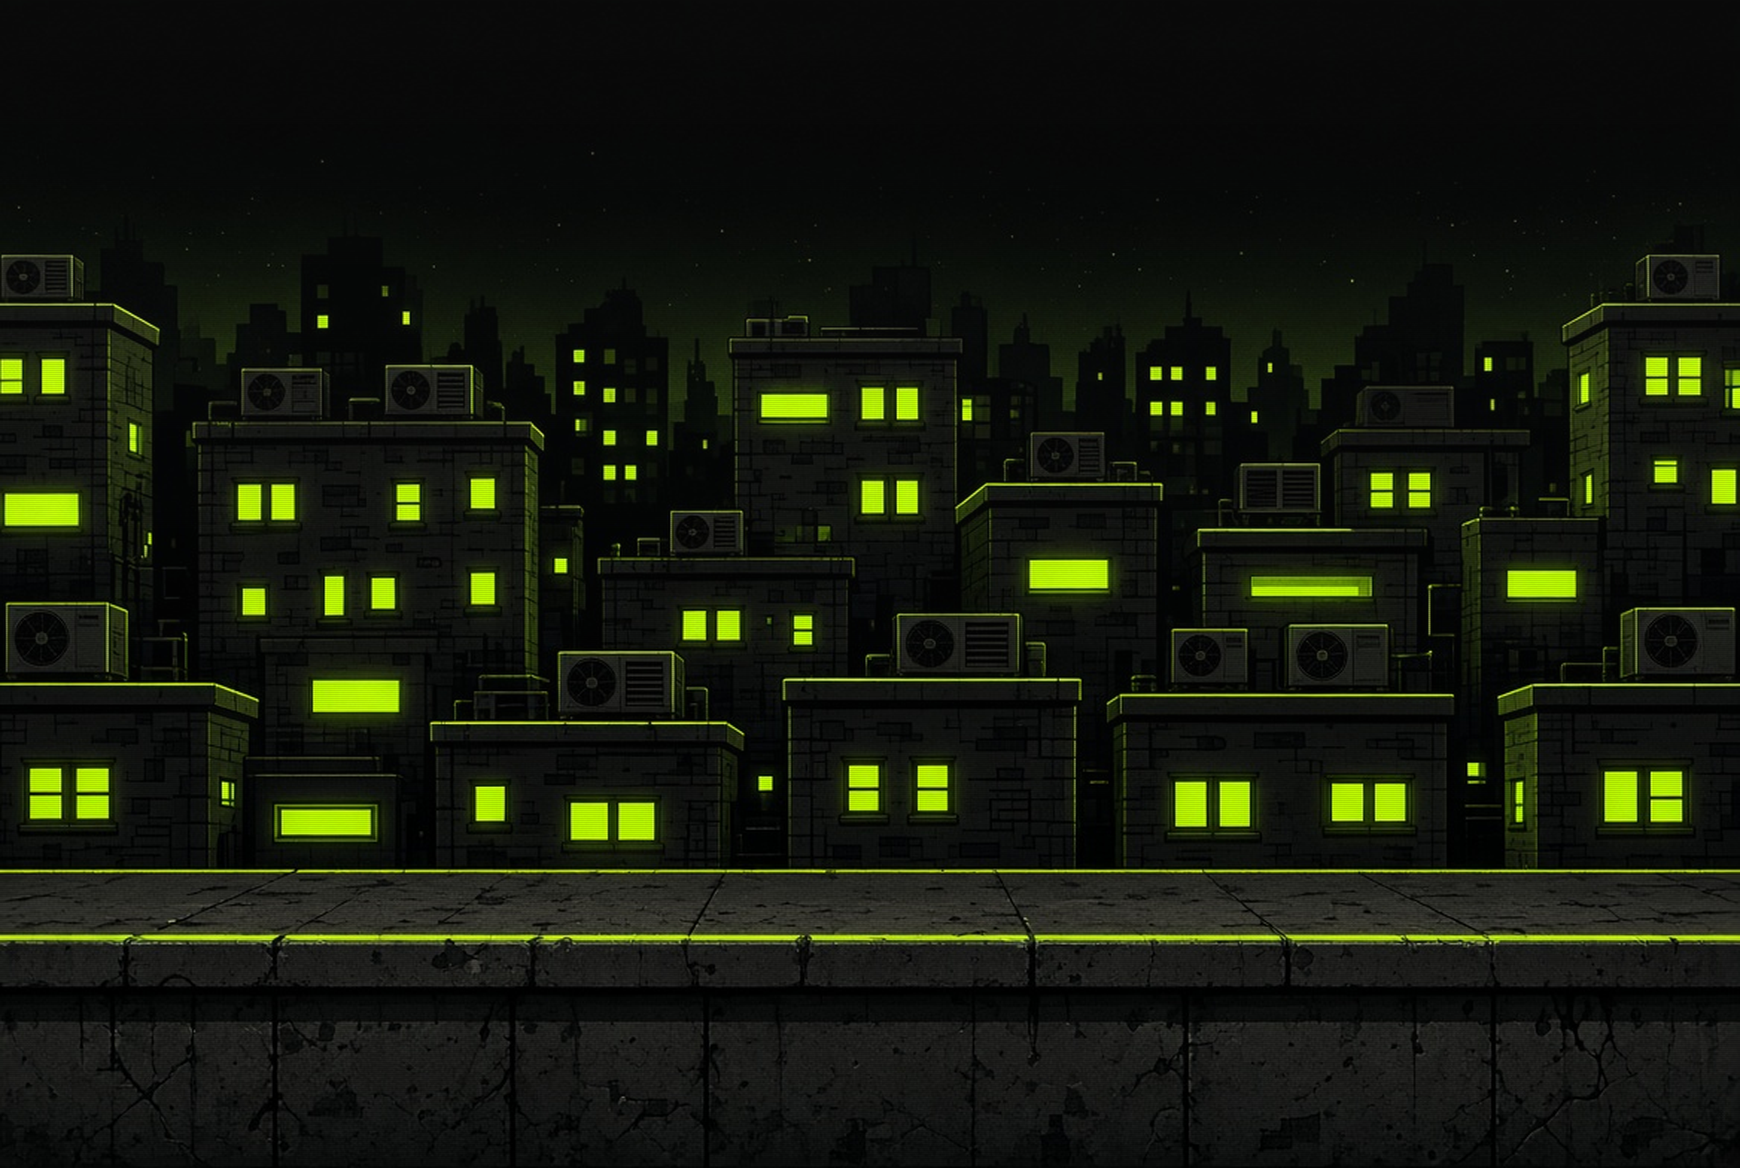
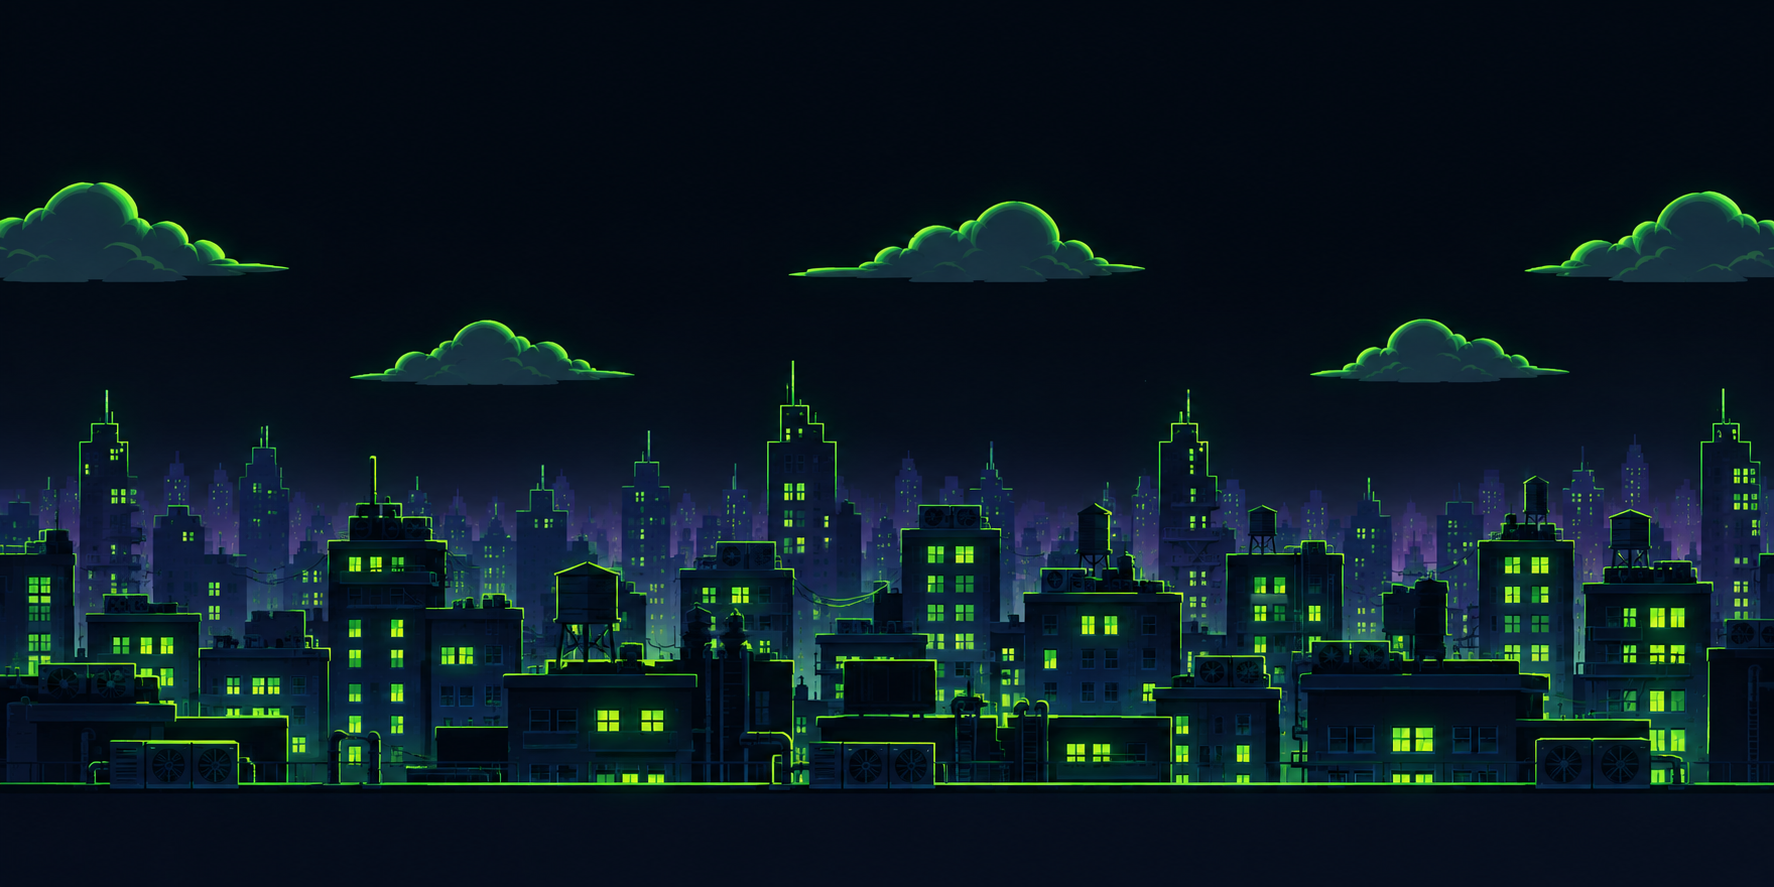
FiFi Bird: ghost replay, haptics, fullscreen fix, and arena art pass
Rendering fix (assets/js/fifi-bird.js):
- resizeCanvas() was always sizing the backing store to the fixed 360x520
  logical resolution and letting CSS stretch it to fill the screen in
  fullscreen - classic upscale blur. It now matches the backing-store
  resolution to the canvas's actual on-screen size in both modes.
- That exposed a hairline seam between mirrored background tiles at
  non-integer scale factors; fixed with a 1px dest-width overlap.

Locker (assets/css/styles.css):
- Locked skin cards were fully desaturated, including the --chip colour
  glow meant to preview the skin - every locked card read as the same flat
  grey tile. Scoped the greyscale filter to just the bird silhouette so the
  colour hint survives.

Arena art:
- Wired Sunset/Terminal/Night/Rooftop/Toxic to the new art actually sitting
  in assets/images/FiFi Bird/arenas (several had landed under "_scroll"
  filenames the code never read).
- Dropped Starfield and Lime Ship - no art exists for either - and nudged
  Ship's unlock requirement down (100 -> 80) so the ladder doesn't jump.
- Arena locker thumbnails fall back to the Meadow image on a failed load
  instead of showing a broken-image icon, mirroring drawBackground()'s
  existing fallback.

New features (assets/js/fifi-bird.js):
- Haptics: navigator.vibrate on flap, death, and a longer pattern on a new
  best. No-ops silently where unsupported (iOS Safari) or blocked.
- "Beat your ghost": each run's bird position/velocity is sampled every
[…]

diff --git a/assets/js/fifi-bird.js b/assets/js/fifi-bird.js
@@ -77,14 +77,12 @@
   ];
   const ARENAS = [
     { id: 'meadow',         label: 'Meadow',    need: 0,   src: BG_SPRITE_PATH },
-    { id: 'sunset_city',    label: 'Sunset',    need: 15,  src: ARENA_DIR + 'sunset_city.jpg' },
+    { id: 'sunset_city',    label: 'Sunset',    need: 15,  src: ARENA_DIR + 'sunset_city_scroll.png' },
     { id: 'terminal_city',  label: 'Terminal',  need: 25,  src: ARENA_DIR + 'terminal_city.jpg' },
-    { id: 'night_city',     label: 'Night',     need: 35,  src: ARENA_DIR + 'night_city.jpg' },
-    { id: 'neon_rooftop',   label: 'Rooftop',   need: 50,  src: ARENA_DIR + 'neon_rooftop.jpg' },
-    { id: 'toxic_meadow',   label: 'Toxic',     need: 65,  src: ARENA_DIR + 'toxic_meadow.jpg' },
-    { id: 'starfield',      label: 'Starfield', need: 80,  src: ARENA_DIR + 'starfield_poster.jpg' },
-    { id: 'spaceship',      label: 'Ship',      need: 100, src: ARENA_DIR + 'spaceship_scroll.png' },
-    { id: 'spaceship_lime', label: 'Lime Ship', need: 120, src: ARENA_DIR + 'spaceship_lime.jpg' }
+    { id: 'night_city',     label: 'Night',     need: 35,  src: ARENA_DIR + 'night_city_scroll.png' },
+    { id: 'neon_rooftop',   label: 'Rooftop',   need: 50,  src: ARENA_DIR + 'neon_rooftop_scroll.png' },
+    { id: 'toxic_meadow',   label: 'Toxic',     need: 65,  src: ARENA_DIR + 'toxic_meadow_scroll.png' },
+    { id: 'spaceship',      label: 'Ship',      need: 80,  src: ARENA_DIR + 'spaceship_scroll.png' }
   ];
 
   BIRD_SKINS.sort((a, b) => a.need - b.need || a.label.localeCompare(b.label));
@@ -250,6 +248,17 @@
   let runRng         = null;
   let runStartBusy   = false;
 
+  // ─── GHOST (beat-your-best replay) ────────────────────────────────────────────
+  // Samples are [elapsedMs, birdY, birdVy] tuples recorded for the CURRENT run and,
+  // once it ends, kept as the new ghost only if it beat the stored one. Replaying
+  // vy (not just y) lets the ghost re-derive the same nose-up/nose-down tilt the
+  // live bird gets, via the identical smoothing step in drawGhost().
+  const GHOST_KEY    = 'fuq.fifiBird.ghost';
+  let ghostSamples   = null;   // loaded/saved [t,y,vy][] — null until a run is ever recorded
+  let ghostScore     = 0;
+  let ghostRecording = [];     // in-progress recording for the run currently being played
+  let ghostAngle     = 0;
+
   const els = {};
   function $(id) { return document.getElementById(id); }
 
@@ -380,6 +389,16 @@
     } catch (_) {}
   }
 
+  // ─── HAPTICS ──────────────────────────────────────────────────────────────────
+  // Android Chrome supports navigator.vibrate; iOS Safari doesn't expose it at
+  // all, so this is a silent no-op there rather than a fallback worth building.
+  function vibrate(pattern) {
+    try {
+      if (reduceMotion) return;
+      if (navigator.vibrate) navigator.vibrate(pattern);
+    } catch (_) {}
+  }
+
   // ─── RNG ──────────────────────────────────────────────────────────────────────
   function mulberry32(a) {
     let state = a >>> 0;
@@ -416,21 +435,26 @@
 
   function resizeCanvas() {
     if (!canvas || !ctx) return;
-    const rect = canvas.getBoundingClientRect();
-    dpr = Math.min(canvasDprCap(), window.devicePixelRatio || 1);
-    canvas.width  = Math.floor(W * dpr);
-    canvas.height = Math.floor(H * dpr);
-    ctx.setTransform(dpr, 0, 0, dpr, 0, 0);
-    ctx.imageSmoothingEnabled = true;
-    if (typeof ctx.imageSmoothingQuality === 'string') ctx.imageSmoothingQuality = 'high';
     const fsActive = pseudoFsActive || !!(document.fullscreenElement || document.webkitFullscreenElement);
     if (fsActive) {
       // Let CSS drive sizing in fullscreen so the canvas fits the viewport height.
       canvas.style.height = '';
     } else {
-      const cw = rect.width || canvas.clientWidth || W;
+      const cw = canvas.getBoundingClientRect().width || canvas.clientWidth || W;
       canvas.style.height = `${(cw * H) / W}px`;
     }
+    // Match the backing-store resolution to the canvas's actual on-screen size
+    // (not the fixed W×H logical size) so fullscreen's CSS upscale doesn't blur —
+    // the rendered box can be far bigger than the 360×520 base in fullscreen.
+    const rect = canvas.getBoundingClientRect();
+    const cssW = rect.width || W;
+    const cssH = rect.height || H;
+    dpr = Math.min(canvasDprCap(), window.devicePixelRatio || 1);
+    canvas.width  = Math.max(1, Math.round(cssW * dpr));
+    canvas.height = Math.max(1, Math.round(cssH * dpr));
+    ctx.setTransform(canvas.width / W, 0, 0, canvas.height / H, 0, 0);
+    ctx.imageSmoothingEnabled = true;
+    if (typeof ctx.imageSmoothingQuality === 'string') ctx.imageSmoothingQuality = 'high';
   }
 
   // ─── HELPERS ──────────────────────────────────────────────────────────────────
@@ -519,14 +543,18 @@
       const offset = bgScrollX - slot * tileW;
       let xPos = Math.floor(-offset), mirrored = (slot & 1) !== 0;
       while (xPos < W + 1) {
+        // Dest width is 1px wider than the tile stride so adjacent tiles overlap
+        // slightly — otherwise non-integer canvas scale factors (e.g. fullscreen,
+        // where backing-store px no longer divide evenly into W) leave a hairline
+        // seam between tiles.
         if (mirrored) {
           ctx.save();
           ctx.translate(xPos + tileW, 0);
           ctx.scale(-1, 1);
-          ctx.drawImage(bgImg, c.sx, c.sy, c.sw, c.sh, 0, 0, tileW, H);
+          ctx.drawImage(bgImg, c.sx, c.sy, c.sw, c.sh, 0, 0, tileW + 1, H);
           ctx.restore();
         } else {
-          ctx.drawImage(bgImg, c.sx, c.sy, c.sw, c.sh, xPos, 0, tileW, H);
+          ctx.drawImage(bgImg, c.sx, c.sy, c.sw, c.sh, xPos, 0, tileW + 1, H);
         }
         xPos += tileW;
         mirrored = !mirrored;
@@ -631,6 +659,29 @@
     ctx.fillRect(0, y + 22, W, 4);
   }
 
+  // Pure sprite blit shared by the live bird and the ghost replay — takes an
+  // already-resolved angle/frame rather than reading birdAngle itself, so the
+  // ghost can drive it with its own (separately smoothed) tilt.
+  function blitBirdSprite(x, y, angle, frameIdx) {
+    ctx.save();
+    ctx.translate(x, y);
+    ctx.rotate(angle);
+    if (birdSpriteOk && birdImg && birdImg.naturalWidth > 0) {
+      const fw = birdImg.naturalWidth / BIRD_SPRITE_FRAMES;
+      const fh = birdImg.naturalHeight;
+      const sy = fh * SPRITE_CROP_Y_FRAC;
+      const sh = fh * SPRITE_CROP_H_FRAC;
+      const scale = TARGET_SPRITE_HEIGHT / sh;
+      const dw = fw * scale, dh = sh * scale;
+      ctx.drawImage(birdImg, frameIdx * fw, sy, fw, sh, -dw * 0.5, -dh * 0.5, dw, dh);
+    } else {
+      ctx.beginPath();
+      ctx.arc(0, 0, BIRD_R, 0, Math.PI * 2);
+      ctx.fillStyle = '#39ff14'; ctx.fill();
+    }
+    ctx.restore();
+  }
+
   function drawBirdAt(x, y, now) {
     // OG rotation: nose snaps up on a flap and holds through the top of the
     // arc, then the bird pitches down hard toward 90° as it dives.
@@ -655,24 +706,7 @@
       frameIdx = Math.floor(now / 420) % 2 === 0 ? 0 : 2;
     }
 
-    ctx.save();
-    ctx.translate(x, y);
-    ctx.rotate(birdAngle);
-
-    if (birdSpriteOk && birdImg && birdImg.naturalWidth > 0) {
-      const fw = birdImg.naturalWidth / BIRD_SPRITE_FRAMES;
-      const fh = birdImg.naturalHeight;
-      const sy = fh * SPRITE_CROP_Y_FRAC;
-      const sh = fh * SPRITE_CROP_H_FRAC;
-      const scale = TARGET_SPRITE_HEIGHT / sh;
-      const dw = fw * scale, dh = sh * scale;
-      ctx.drawImage(birdImg, frameIdx * fw, sy, fw, sh, -dw * 0.5, -dh * 0.5, dw, dh);
-    } else {
-      ctx.beginPath();
-      ctx.arc(0, 0, BIRD_R, 0, Math.PI * 2);
-      ctx.fillStyle = '#39ff14'; ctx.fill();
-    }
-    ctx.restore();
+    blitBirdSprite(x, y, birdAngle, frameIdx);
   }
 
   // Big plain counter at the top, exactly like the OG — no pops, no "+1".
@@ -946,6 +980,7 @@
     } else if (gameState === S_READY) {
       by = birdY + Math.sin(now / 320) * 6;
     }
+    drawGhost(now);
     drawBirdAt(bx, by, now);
 
     // Score HUD — visible from GET READY through the death fall, like the OG
@@ -1017,6 +1052,10 @@
       bgScrollX += speed * BG_PARALLAX;
       groundScrollX += speed;
 
+      if (runStartedPerf != null && ghostRecording.length < 20000) {
+        ghostRecording.push([ts - runStartedPerf, birdY, birdVy]);
+      }
+
       for (let i = pipes.length - 1; i >= 0; i--) {
         pipes[i].x -= speed;
         const p = pipes[i];
@@ -1039,6 +1078,7 @@
         shakeAmt = 1.0;
         flashAmt = 1.0;
         playDeath();
+        vibrate(30);
       }
     }
 
@@ -1054,11 +1094,81 @@
         deadTs = ts;
         deathWasNewBest = score > 0 && score > bestScore;
         spawnWinParticles();
+        if (deathWasNewBest) vibrate([20, 40, 20, 40, 20]);
         void endRound();
       }
     }
 
     drawFrame(ts);
+  }
+
+  // ─── GHOST ────────────────────────────────────────────────────────────────────
+  function loadGhostBest() {
+    try {
+      const raw = window.localStorage && window.localStorage.getItem(GHOST_KEY);
+      if (!raw) return null;
+      const parsed = JSON.parse(raw);
+      if (!parsed || !Array.isArray(parsed.samples) || parsed.samples.length < 2) return null;
+      return parsed;
+    } catch (_) { return null; }
+  }
+
+  // Thins a run down to a bounded point count and rounds values before it's
+  // persisted, so a long run doesn't blow up localStorage — shared by the save
+  // path and the in-memory copy so both end up with identical playback data.
+  function buildGhostSamples(recording) {
+    const MAX_POINTS = 1500;
+    let samples = recording;
+    if (samples.length > MAX_POINTS) {
+      const stride = samples.length / MAX_POINTS;
+      const out = [];
+      for (let i = 0; i < MAX_POINTS; i++) out.push(samples[Math.floor(i * stride)]);
+      out.push(samples[samples.length - 1]);
+      samples = out;
+    }
+    return samples.map((p) => [Math.round(p[0]), Math.round(p[1] * 10) / 10, Math.round(p[2] * 100) / 100]);
+  }
+
+  function saveGhostBest(score, recording) {
+    try {
+      if (!window.localStorage || !Array.isArray(recording) || recording.length < 2) return null;
+      const samples = buildGhostSamples(recording);
+      window.localStorage.setItem(GHOST_KEY, JSON.stringify({ score, samples }));
+      return samples;
+    } catch (_) { return null; }
+  }
+
+  // Interpolates the ghost's y/vy at a point in the run's timeline. Returns null
+  // once elapsedMs runs past the ghost's own recorded death — there's nothing to
+  // show beyond where that run ended.
+  function ghostValueAt(elapsedMs) {
+    const s = ghostSamples;
+    if (!s || s.length < 2) return null;
+    if (elapsedMs > s[s.length - 1][0]) return null;
+    if (elapsedMs <= s[0][0]) return { y: s[0][1], vy: s[0][2] };
+    let lo = 0, hi = s.length - 1;
+    while (hi - lo > 1) {
+      const mid = (lo + hi) >> 1;
+      if (s[mid][0] <= elapsedMs) lo = mid; else hi = mid;
+    }
+    const a = s[lo], b = s[hi];
+    const span = b[0] - a[0];
+    const f = span > 0 ? (elapsedMs - a[0]) / span : 0;
+    return { y: a[1] + (b[1] - a[1]) * f, vy: a[2] + (b[2] - a[2]) * f };
+  }
+
+  function drawGhost(now) {
+    if (!ghostSamples || gameState !== S_PLAYING || runStartedPerf == null) return;
+    const v = ghostValueAt(now - runStartedPerf);
+    if (!v) return;
+    // Same nose-up/nose-down smoothing drawBirdAt() applies to the live bird,
+    // just driven by the ghost's own recorded vy instead of the live one.
+    if (v.vy < 1.8) ghostAngle += (-0.42 - ghostAngle) * 0.38;
+    else ghostAngle = Math.min(Math.PI * 0.5, ghostAngle + 0.055);
+    ctx.save();
+    ctx.globalAlpha = 0.32;
+    blitBirdSprite(BIRD_X, v.y, ghostAngle, 0);
+    ctx.restore();
   }
 
   // ─── STATS ────────────────────────────────────────────────────────────────────
@@ -1123,6 +1233,13 @@
     sessionBest = Math.max(sessionBest, runScore);
     if (score > bestScore) bestScore = score;
 
+    // This run becomes the new ghost only once it actually beat the one on file —
+    // otherwise the next run would start replaying a worse flight than before.
+    if (runScore > 0 && (!ghostSamples || runScore > ghostScore)) {
+      const saved = saveGhostBest(runScore, ghostRecording);
+      if (saved) { ghostSamples = saved; ghostScore = runScore; }
+    }
+
     const fc = window.FuqCloud;
     let saved = { ok: true };
     let durationMs = 800;
@@ -1166,6 +1283,7 @@
       smoothedDtScale = 1;
       deathWasNewBest = false;
       winParticles = [];
+      ghostRecording = []; ghostAngle = 0;
       runSessionId = null; runStartedPerf = null; runRng = null;
       if (els.scoreHud) els.scoreHud.textContent = '0';
 
@@ -1189,6 +1307,7 @@
     if (typeof performance !== 'undefined') runStartedPerf = performance.now();
     birdVy = FLAP;
     triggerWingBurst();
+    vibrate(10);
     // Defer audio so AudioContext init / source scheduling doesn't delay the next paint.
     setTimeout(playFlap, 0);
     spawnPipe();
@@ -1221,6 +1340,7 @@
     // S_PLAYING
     birdVy = FLAP;
     triggerWingBurst();
+    vibrate(10);
     // Defer audio so creating BufferSource nodes doesn't push the next paint
     // past the upcoming vsync — that's what causes the "tap = pipes jump" feel.
     setTimeout(playFlap, 0);
@@ -1597,6 +1717,13 @@
         img.loading = 'lazy';
         img.decoding = 'async';
         img.alt = '';
+        // Mirror drawBackground()'s own fallback: an arena whose art isn't in yet
+        // shows the Meadow thumbnail instead of a broken-image icon.
+        img.addEventListener('error', () => {
+          if (img.dataset.fallback) return;
+          img.dataset.fallback = '1';
+          img.src = BG_SPRITE_PATH;
+        });
         img.src = item.src;
         art.appendChild(img);
       } else {
@@ -1832,6 +1959,9 @@
     canvas = $('fifi-bird-canvas');
     if (!canvas) return;
     ctx = canvas.getContext('2d', { alpha: false });
+
+    const storedGhost = loadGhostBest();
+    if (storedGhost) { ghostSamples = storedGhost.samples; ghostScore = storedGhost.score; }
 
     els.best     = $('fifi-bird-stat-best');
     els.runs     = $('fifi-bird-stat-runs');

diff --git a/games.html b/games.html
@@ -7,7 +7,7 @@
   <meta name="description" content="Fuqmea arcade — aura farm (crash-style), blackjack, coin flip, RPS, slots · fun FUQ tokens">
   <meta http-equiv="Content-Security-Policy" content="default-src 'self'; script-src 'self' https://www.googletagmanager.com; style-src 'self' 'unsafe-inline'; img-src 'self' data: https:; connect-src 'self' https://decapi.me https://www.tiktok.com https://*.supabase.co https://*.functions.supabase.co https://www.google-analytics.com https://*.analytics.google.com https://*.google-analytics.com; frame-ancestors 'none'; base-uri 'self'; form-action 'self'">
   <title>fuqmea.com • GAMES</title>
-  <link rel="stylesheet" href="assets/css/styles.css?v=2.2.65">
+  <link rel="stylesheet" href="assets/css/styles.css?v=2.2.66">
   <script src="assets/js/cookie-consent.js?v=1.0.0"></script>
 </head>
 <body class="games-page">
@@ -692,7 +692,7 @@
   <script src="assets/js/vendor/supabase.umd.min.js?v=2.49.8" defer></script>
   <script src="assets/js/display-name-policy.js?v=1.0.0" defer></script>
   <script src="assets/js/cloud-sync.js?v=1.30.0" defer></script>
-  <script src="assets/js/fifi-bird.js?v=2.6.3" defer></script>
+  <script src="assets/js/fifi-bird.js?v=2.7.0" defer></script>
   <script src="assets/js/games.js?v=2.8.9" defer></script>
   <script src="assets/js/discord-link.js?v=1.0.0" defer></script>
 </body>

diff --git a/assets/css/styles.css b/assets/css/styles.css
@@ -5066,7 +5066,11 @@ body.fifi-bird-fs-lock {
   cursor: pointer;
   border-color: rgba(255, 255, 255, 0.1);
 }
-.games-fifi-locker-card.is-locked .games-fifi-locker-swatch,
+/* Grey out the bird silhouette itself, but leave the swatch's --chip-colored
+   glow alone — it's the only hint of a locked skin's real color, and graying
+   out the whole swatch (as before) erased it, leaving every locked card looking
+   like the same flat grey tile. Arena thumbs are photos, so they grey out whole. */
+.games-fifi-locker-card.is-locked .games-fifi-locker-bird,
 .games-fifi-locker-card.is-locked .games-fifi-locker-thumb {
   filter: grayscale(0.85) brightness(0.55);
 }
